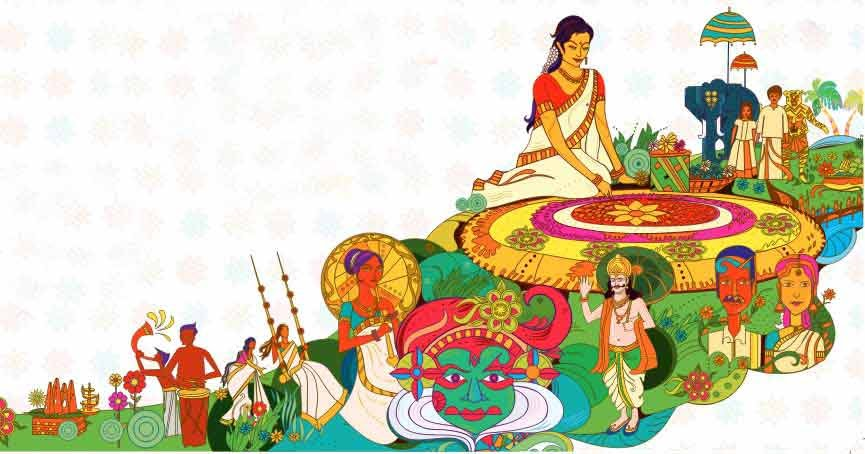
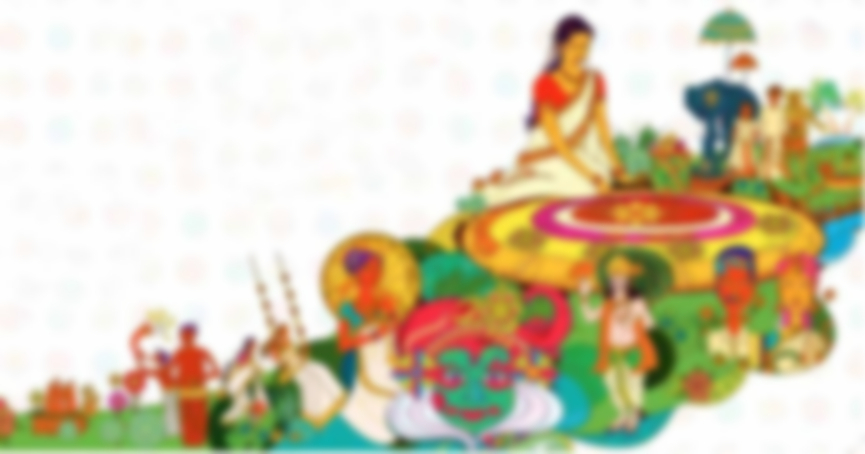
update

diff --git a/style.css b/style.css
@@ -7,7 +7,6 @@
 body {
   background-image: url('onam-festival-symbol-painti.jpg');
   background-size: cover;
-  backdrop-filter: blur(10px);
   overflow: hidden;
 }
 
@@ -25,7 +24,7 @@ h1 {
   text-align: center;
   text-transform: uppercase;
   color: #ffbb00;
-  font-size: 4rem;
+  font-size: 3rem;
 }
 
 .roller {
@@ -80,7 +79,7 @@ h1 {
     text-align: center;
     text-transform: uppercase;
     color: #ffbb00;
-    font-size: 2.125rem;
+    font-size: 2rem;
   }
 
   .roller {
@@ -153,4 +152,52 @@ h1 {
   color: transparent;
   display: inline-block;
   padding: 10px;
+  font-size: smaller;
+}
+
+/* Add a media query for smaller screens */
+@media screen and (max-width: 400px) {
+  h1 {
+    font-size: 1rem;
+    /* Adjust the font size as needed */
+  }
+
+  .roller {
+    height: 1.4rem;
+    /* Adjust the height as needed */
+    line-height: 1.2rem;
+    /* Adjust the line height as needed */
+  }
+
+  #spare-time {
+    font-size: 0.7rem;
+    /* Adjust the font size as needed */
+    letter-spacing: 0.03rem;
+    /* Adjust the letter spacing as needed */
+  }
+
+  .roller #rolltext {
+    animation: slide-mob 5s infinite;
+  }
+
+  @keyframes slide-mob {
+    0% {
+      top: 0;
+    }
+
+    25% {
+      top: -1rem;
+      /* Adjust the value as needed */
+    }
+
+    50% {
+      top: -2rem;
+      /* Adjust the value as needed */
+    }
+
+    72.5% {
+      top: -3rem;
+      /* Adjust the value as needed */
+    }
+  }
 }

diff --git a/index.html b/index.html
@@ -6,6 +6,8 @@
   <title>CodePen - CSS Rolling Text</title>
   <link rel='stylesheet' href='https://fonts.googleapis.com/css2?family=Arvo:wght@700&amp;display=swap'>
   <link rel="stylesheet" href="./style.css">
+  <meta charset="UTF-8">
+  <meta name="viewport" content="width=device-width, initial-scale=1.0">
   <style>
     /* Additional responsive styles */
     body {
